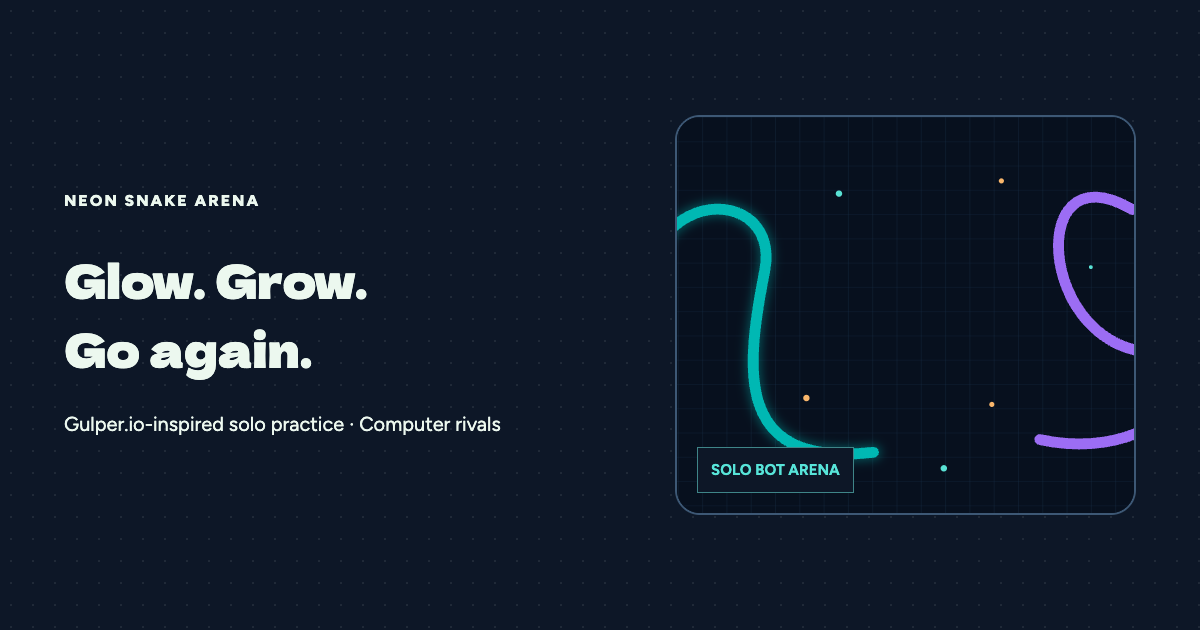
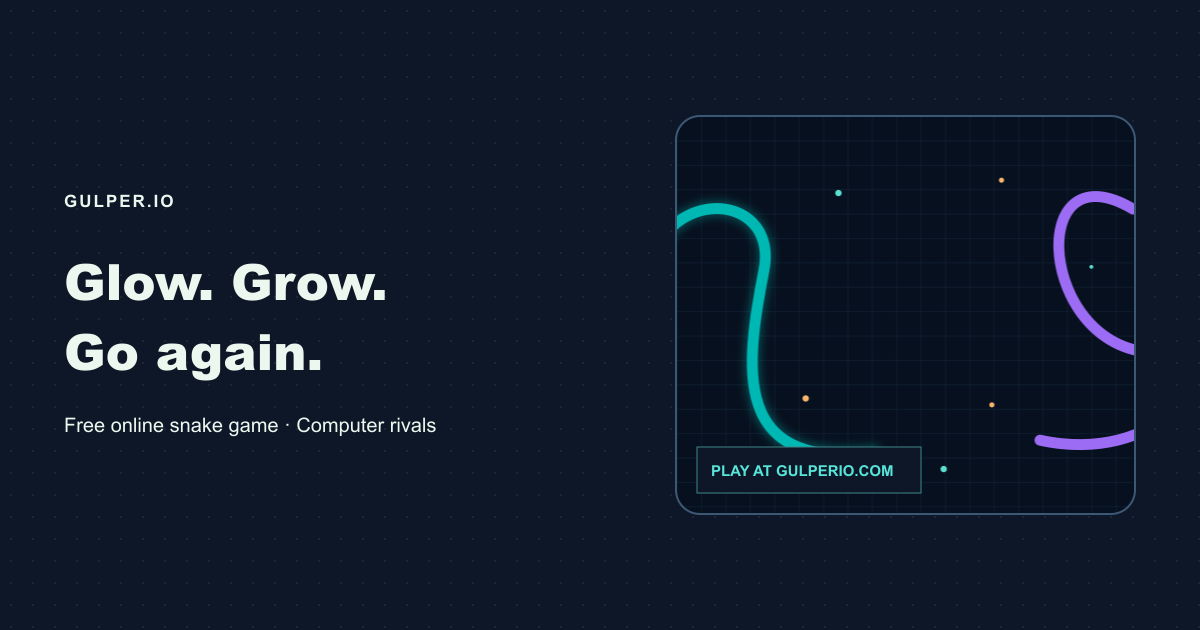
copy: focus Gulperio metadata on the game and player controls

diff --git a/games/gulperio/index.html b/games/gulperio/index.html
@@ -3,25 +3,25 @@
 <head>
   <meta charset="UTF-8">
   <meta name="viewport" content="width=device-width, initial-scale=1">
-  <title>Gulper.io-Inspired Snake Arena — Solo Bot Game</title>
+  <title>Gulper.io Snake Game — Play Online Free</title>
 
   <!-- Primary Meta Tags -->
-  <meta name="title" content="Gulper.io-Inspired Snake Arena — Solo Bot Game">
-  <meta name="description" content="Play an independent neon snake arena against computer-controlled opponents. Steer, collect orbs, boost and beat your browser-local best. No multiplayer server.">
+  <meta name="title" content="Gulper.io Snake Game — Play Online Free">
+  <meta name="description" content="Play Gulper.io in your browser. Collect glowing orbs, outmaneuver computer rivals and boost your way to a new high score. Free to play, no download.">
   <meta name="robots" content="index, follow, max-image-preview:large">
   <link rel="canonical" href="https://gulperio.com/">
 
   <!-- Open Graph / Facebook -->
   <meta property="og:type" content="website">
   <meta property="og:url" content="https://gulperio.com/">
-  <meta property="og:title" content="Gulper.io-Inspired Snake Arena — Solo Bot Game">
-  <meta property="og:description" content="Play an independent neon snake arena against computer-controlled opponents. Steer, collect orbs, boost and beat your browser-local best. No multiplayer server.">
+  <meta property="og:title" content="Gulper.io Snake Game — Play Online Free">
+  <meta property="og:description" content="Play Gulper.io in your browser. Collect glowing orbs, outmaneuver computer rivals and boost your way to a new high score. Free to play, no download.">
 
   <!-- Twitter -->
   <meta name="twitter:card" content="summary_large_image">
   <meta property="twitter:url" content="https://gulperio.com/">
-  <meta name="twitter:title" content="Gulper.io-Inspired Snake Arena — Solo Bot Game">
-  <meta name="twitter:description" content="Play an independent neon snake arena against computer-controlled opponents. Steer, collect orbs, boost and beat your browser-local best. No multiplayer server.">
+  <meta name="twitter:title" content="Gulper.io Snake Game — Play Online Free">
+  <meta name="twitter:description" content="Play Gulper.io in your browser. Collect glowing orbs, outmaneuver computer rivals and boost your way to a new high score. Free to play, no download.">
 
   <!-- Theme & Icons -->
   <meta name="theme-color" content="#0d1727">
@@ -36,8 +36,8 @@
   "@graph": [
     {
       "@type": "VideoGame",
-      "name": "Gulper.io-Inspired Snake Arena",
-      "description": "Play an independent neon snake arena against computer-controlled opponents. Steer, collect orbs, boost and beat your browser-local best. No multiplayer server.",
+      "name": "Gulper.io Snake Game",
+      "description": "Play Gulper.io in your browser. Collect glowing orbs, outmaneuver computer rivals and boost your way to a new high score. Free to play, no download.",
       "url": "https://gulperio.com/",
       "image": "https://gulperio.com/assets/social-card.png",
       "gamePlatform": "Web browser",
@@ -74,14 +74,6 @@
           "acceptedAnswer": {
             "@type": "Answer",
             "text": "Yes. You can cross your own body. Hitting another snake with your head or reaching the arena boundary ends your run."
-          }
-        },
-        {
-          "@type": "Question",
-          "name": "Is this the official Gulper.io game?",
-          "acceptedAnswer": {
-            "@type": "Answer",
-            "text": "No. This is an independent browser game inspired by snake-arena mechanics. It has its own computer-controlled arena and does not connect to the original Gulper.io service."
           }
         },
         {
@@ -124,9 +116,9 @@
   <meta property="og:image" content="https://gulperio.com/assets/social-card.png">
   <meta property="og:image:width" content="1200">
   <meta property="og:image:height" content="630">
-  <meta property="og:image:alt" content="Gulper.io-Inspired Snake Arena — Solo Bot Game">
+  <meta property="og:image:alt" content="Gulper.io Snake Game — Play Online Free">
   <meta name="twitter:image" content="https://gulperio.com/assets/social-card.png">
-  <meta name="twitter:image:alt" content="Gulper.io-Inspired Snake Arena — Solo Bot Game">
+  <meta name="twitter:image:alt" content="Gulper.io Snake Game — Play Online Free">
   <link rel="manifest" href="/manifest.json">
 </head>
 <body>
@@ -221,9 +213,9 @@
     </div>
 
     <!-- Editorial Content Section: Guides, Strategy, FAQs -->
-    <section class="content-section"><article class="guide-block"><h2 class="guide-heading">A neon arena. Your own pace.</h2><p class="guide-para">This independent, single-player arena runs against computer-controlled snakes. Collect energy orbs, grow carefully and try to beat your personal best.</p><ul class="guide-list"><li>Steer with the mouse or drag on the canvas. A second finger activates touch boost.</li><li>Hold the left mouse button or Space with the arena focused to boost. Release to stop spending length.</li><li>Your own tail is safe to cross. Other snakes and the outer boundary are hazards.</li><li>Start another run from the result screen or the New run button. Arena rankings describe this local match.</li></ul></article><article class="guide-block"><h2 class="guide-heading">Questions before one more round?</h2><details class="faq-item"><summary>Am I playing against other people?</summary><p>No. This is a single-player snake arena with computer-controlled opponents. The arena rankings are local to this run, not a global or live multiplayer leaderboard.</p></details><details class="faq-item"><summary>How do I steer and boost?</summary><p>Move your mouse over the arena to steer, or drag a finger on the canvas. Hold the left mouse button or Space while the arena has focus to boost. On touchscreens, use a second finger to boost. Boosting spends some length.</p></details><details class="faq-item"><summary>Can I pass through my own tail?</summary><p>Yes. You can cross your own body. Hitting another snake with your head or reaching the arena boundary ends your run.</p></details><details class="faq-item"><summary>Is this the official Gulper.io game?</summary><p>No. This is an independent browser game inspired by snake-arena mechanics. It has its own computer-controlled arena and does not connect to the original Gulper.io service.</p></details><details class="faq-item"><summary>What does the site save?</summary><p>Your personal best and sound setting stay in this browser when storage is available. Clearing site data removes them. The current run and arena rankings are not saved.</p></details><details class="faq-item"><summary>Will it work on every school or work network?</summary><p>Access depends on your network rules. A browser-based game and its domain cannot guarantee access or bypass a network filter.</p></details></article><article class="guide-block"><h2 class="guide-heading">Rivals with a little personality</h2><details class="faq-item"><summary>How do the computer rivals play?</summary><p>Each rival has its own play style: collecting, hunting, drifting or taking rookie risks. They react to nearby food and snakes, sometimes sprint, change their minds and make mistakes. They are computer-controlled, not online players.</p></details></article><article class="guide-block" id="privacy"><h2 class="guide-heading">Privacy &amp; local storage</h2><p class="guide-para">Game records and sound settings stay in this browser. No account is needed. The host may use Vercel Web Analytics and Speed Insights for aggregate visits and performance; hosting also produces standard request logs. There are no advertising scripts in this version. <a href="/THIRD_PARTY_NOTICES.md">Fonts &amp; asset notes</a>.</p></article></section>
+    <section class="content-section"><article class="guide-block"><h2 class="guide-heading">A neon arena. Your own pace.</h2><p class="guide-para">Collect glowing orbs, grow your snake and outmaneuver computer rivals. Find your opening, boost past trouble and chase a new personal best.</p><ul class="guide-list"><li>Steer with the mouse or drag on the canvas. A second finger activates touch boost.</li><li>Hold the left mouse button or Space with the arena focused to boost. Release to stop spending length.</li><li>Your own tail is safe to cross. Other snakes and the outer boundary are hazards.</li><li>Start another run from the result screen or the New run button. Arena rankings describe this local match.</li></ul></article><article class="guide-block"><h2 class="guide-heading">Questions before one more round?</h2><details class="faq-item"><summary>Am I playing against other people?</summary><p>No. This is a single-player snake arena with computer-controlled opponents. The arena rankings are local to this run, not a global or live multiplayer leaderboard.</p></details><details class="faq-item"><summary>How do I steer and boost?</summary><p>Move your mouse over the arena to steer, or drag a finger on the canvas. Hold the left mouse button or Space while the arena has focus to boost. On touchscreens, use a second finger to boost. Boosting spends some length.</p></details><details class="faq-item"><summary>Can I pass through my own tail?</summary><p>Yes. You can cross your own body. Hitting another snake with your head or reaching the arena boundary ends your run.</p></details><details class="faq-item"><summary>What does the site save?</summary><p>Your personal best and sound setting stay in this browser when storage is available. Clearing site data removes them. The current run and arena rankings are not saved.</p></details><details class="faq-item"><summary>Will it work on every school or work network?</summary><p>Access depends on your network rules. A browser-based game and its domain cannot guarantee access or bypass a network filter.</p></details></article><article class="guide-block"><h2 class="guide-heading">Rivals with a little personality</h2><details class="faq-item"><summary>How do the computer rivals play?</summary><p>Each rival has its own play style: collecting, hunting, drifting or taking rookie risks. They react to nearby food and snakes, sometimes sprint, change their minds and make mistakes. They are computer-controlled, not online players.</p></details></article><article class="guide-block" id="privacy"><h2 class="guide-heading">Privacy &amp; local storage</h2><p class="guide-para">Game records and sound settings stay in this browser. No account is needed. The host may use Vercel Web Analytics and Speed Insights for aggregate visits and performance; hosting also produces standard request logs. There are no advertising scripts in this version. <a href="/THIRD_PARTY_NOTICES.md">Fonts &amp; asset notes</a>.</p></article></section>
 
-    <footer class="site-footer"><p>An independent Gulper.io-inspired solo snake game. Not the official Gulper.io service. Opponents are computer-controlled; rankings are local to each run.</p><a href="#privacy">Privacy &amp; local storage</a></footer>
+    <footer class="site-footer"><p>Play free at Gulperio.com. Collect orbs, dodge rivals and climb the arena rankings.</p><a href="#privacy">Privacy &amp; local storage</a></footer>
   </main>
 
   <!-- Game Over Dialog (closedby="any") -->

diff --git a/games/gulperio/design/social-card.html b/games/gulperio/design/social-card.html
@@ -1,1 +1,1 @@
-<!doctype html><html lang="en"><meta charset="utf-8"><title>NEON SNAKE ARENA social card source</title><style>@font-face{font-family:Display;src:url('/assets/fonts/DelaGothicOne-Latin.woff2')}@font-face{font-family:Body;src:url('/assets/fonts/Figtree-Latin.woff2')}*{box-sizing:border-box}body{margin:0;width:1200px;height:630px;background:#0d1727;color:#ecf8ef;font-family:Body,system-ui;display:grid;grid-template-columns:1.25fr 1fr;align-items:center;padding:64px;gap:35px;background-image:radial-gradient(#ecf8ef15 1px,transparent 1px);background-size:22px 22px}.brand{font-size:16px;letter-spacing:2px;font-weight:800;margin-bottom:35px}h1{font-family:Display,sans-serif;font-size:46px;line-height:1.5;font-weight:400;margin:0 0 25px}p{font-size:20px;line-height:1.6;margin:0}.board{display:grid;grid-template-columns:repeat(8,1fr);gap:5px;border:3px solid #26304a;padding:15px;background:#fff;border-radius:24px;box-shadow:0 9px #26304a}.board i{aspect-ratio:1;border-radius:7px;border:1px solid #26304a12}.product{background:#fff;border:3px solid #26304a;border-radius:25px;padding:20px;text-align:center;box-shadow:0 9px #26304a}.product img{width:100%;height:230px}.tag{background:#ffda69;border:2px solid #26304a;border-radius:14px;font-family:Display;font-size:36px;padding:10px;margin:10px 0}.product p{font-size:16px}.arena{position:relative;height:400px;border:2px solid #3d5875;border-radius:25px;overflow:hidden}.arena img{width:100%;height:100%;object-fit:cover}.arena b{position:absolute;left:20px;bottom:20px;font-size:15px;background:#0d1727;padding:13px;border:1px solid #3f8588;color:#57e4d9}</style><main><div class="brand">NEON SNAKE ARENA</div><h1>Glow. Grow.<br>Go again.</h1><p>Gulper.io-inspired solo practice · Computer rivals</p></main><div class="arena"><img src="/assets/arena-preview.svg"><b>SOLO BOT ARENA</b></div></html>
+<!doctype html><html lang="en"><meta charset="utf-8"><title>GULPER.IO social card source</title><style>@font-face{font-family:Display;src:url('/assets/fonts/DelaGothicOne-Latin.woff2')}@font-face{font-family:Body;src:url('/assets/fonts/Figtree-Latin.woff2')}*{box-sizing:border-box}body{margin:0;width:1200px;height:630px;background:#0d1727;color:#ecf8ef;font-family:Body,system-ui;display:grid;grid-template-columns:1.25fr 1fr;align-items:center;padding:64px;gap:35px;background-image:radial-gradient(#ecf8ef15 1px,transparent 1px);background-size:22px 22px}.brand{font-size:16px;letter-spacing:2px;font-weight:800;margin-bottom:35px}h1{font-family:Display,sans-serif;font-size:46px;line-height:1.5;font-weight:400;margin:0 0 25px}p{font-size:20px;line-height:1.6;margin:0}.board{display:grid;grid-template-columns:repeat(8,1fr);gap:5px;border:3px solid #26304a;padding:15px;background:#fff;border-radius:24px;box-shadow:0 9px #26304a}.board i{aspect-ratio:1;border-radius:7px;border:1px solid #26304a12}.product{background:#fff;border:3px solid #26304a;border-radius:25px;padding:20px;text-align:center;box-shadow:0 9px #26304a}.product img{width:100%;height:230px}.tag{background:#ffda69;border:2px solid #26304a;border-radius:14px;font-family:Display;font-size:36px;padding:10px;margin:10px 0}.product p{font-size:16px}.arena{position:relative;height:400px;border:2px solid #3d5875;border-radius:25px;overflow:hidden}.arena img{width:100%;height:100%;object-fit:cover}.arena b{position:absolute;left:20px;bottom:20px;font-size:15px;background:#0d1727;padding:13px;border:1px solid #3f8588;color:#57e4d9}</style><main><div class="brand">GULPER.IO</div><h1>Glow. Grow.<br>Go again.</h1><p>Free online snake game · Computer rivals</p></main><div class="arena"><img src="/assets/arena-preview.svg"><b>PLAY AT GULPERIO.COM</b></div></html>

diff --git a/games/gulperio/README.md b/games/gulperio/README.md
@@ -1,6 +1,6 @@
-# Neon Snake Arena — Gulper.io-inspired
+# Gulper.io Snake Game — Gulperio.com
 
-An independent single-player neon snake arena with computer-controlled rivals. It does not connect to the original Gulper.io multiplayer service. Rankings belong to the current local arena; there is no shared leaderboard.
+A single-player neon snake arena at https://gulperio.com/ with computer-controlled rivals. Rankings belong to the current local arena; there is no shared leaderboard.
 
 ## Local preview
 
@@ -22,7 +22,7 @@ Open http://127.0.0.1:4193/. The repository review server uses this port during 
 
 ## Assets and SEO
 
-Fonts are hosted locally with their OFL license files; see [THIRD_PARTY_NOTICES.md](THIRD_PARTY_NOTICES.md). Native HTML/CSS/vector artwork supplies the page and social card. Social-card source is in `design/social-card.html`; the published PNG is 1200 × 630. No remote font or product-image request is needed to play.
+Fonts are hosted locally with their OFL license files; see [THIRD_PARTY_NOTICES.md](THIRD_PARTY_NOTICES.md). Native HTML/CSS/vector artwork supplies the page and social card. Social-card layout reference is in `design/social-card.html`; `design/render-social-card.cjs` renders the current code-native vector artwork to the published 1200 × 630 PNG. Pass the local `sharp` module path as its argument when it is not installed in this repository. No remote font or product-image request is needed to play.
 
 The HTML contains one H1, readable instructions, matching visible FAQ/JSON-LD, a canonical URL, and Open Graph/Twitter metadata. FAQ schema is descriptive and does not guarantee a Google rich result. No ratings or ranking promises are supplied. Existing Vercel analytics/performance script hooks are retained for hosted pages and skipped on localhost; page privacy text discloses them.
 

diff --git a/deployments/2026-10-24-gulper-copy.md b/deployments/2026-10-24-gulper-copy.md
@@ -1,0 +1,13 @@
+# Gulperio copy and domain verification
+
+Owner preference: use direct game/SEO copy; avoid repeated imitation/inspired framing. Keep the game name Gulper.io and website domain gulperio.com. Describe actual controls, computer rivals and local arena rankings accurately.
+
+Verified Vercel domain: `gulperio.com`, `verified:true`, project `prj_wVEVdXppNfidfGfeDXKSpDCEo1os` (`gulperio-game`), team `team_yFBRBoOUaKz5Kjg6nxC3skZF`. Source build origin, canonical, Open Graph URLs, robots and sitemap all use `https://gulperio.com`.
+
+Changed homepage title/social metadata to **Gulper.io Snake Game — Play Online Free**, rewrote the description and gameplay introduction, removed the unnecessary official-game comparison FAQ from both visible content and JSON-LD, simplified the footer, and updated the app manifest/social card. No gameplay logic changed. Required font notices and privacy information remain.
+
+Validation: 21 preview/production metadata and export checks passed; FAQ schema matches visible answers, preview remains noindex, production uses the correct domain. The regenerated 1200×630 social PNG was visually checked. Evidence: [gulper-copy-checks.json](evidence/2026-10-24/gulper-copy-checks.json).
+
+Publication: source is prepared for GitHub push; actual production update must be verified separately. Previous Vercel commit statuses report `Deployment rate limited — retry in 24 hours.` Do not mark this new copy live unless a new READY deployment and public title are observed. No quota workaround or paid-plan change is authorized by this copy edit.
+
+Local asset tool: `games/gulperio/design/render-social-card.cjs`; verified by passing the bundled absolute `sharp` module path. It re-renders native SVG artwork and text; it is excluded from the runtime export.

diff --git a/HANDOFF.md b/HANDOFF.md
@@ -1,5 +1,7 @@
 # GameHubs handoff
 
+Current task — Gulperio copy (2026-10-24): domain binding and build/canonical/sitemap verified against gulperio.com. Direct game/SEO copy now replaces inspired/independent/official-comparison framing in public metadata, supporting copy and social card; actual computer-rival/local-ranking descriptions remain.21 metadata/export checks pass. [Release record](deployments/2026-10-24-gulper-copy.md). Next: push scoped paths and check GitHub/Vercel status; prior pushes are blocked by the platform's24-hour deployment rate limit, so do not claim this copy is live without a new READY deployment and public-title verification. Owner copy preference is recorded in AGENTS.md.
+
 Repository refactor (2026-10-24): [REPOSITORIES.md](REPOSITORIES.md) and [REPOSITORY_REFACTOR.md](REPOSITORY_REFACTOR.md). Cluster Rush / Acceleration City canonical sources are now their independent private repositories in `E:/Projects/game-sites/`; do not continue editing their GameHubs snapshots. Ten deployed projects remain linked to this repository with per-game Ignored Build Step filtering. Release holds remain in force.
 
 Live selective-build verification at 772f407: Snow Rider READY, 8 unrelated projects canceled by the ignore command; Gulper.io was rate-limited before deployment creation (platform says retry in24 hours), so its live ignore execution remains pending. All10 public URLs still return200. Remaining10 repository migrations are a subsequent phase; canceled attempts do not replace the existing production deployment.

diff --git a/AGENTS.md b/AGENTS.md
@@ -8,3 +8,4 @@ GameHubs is the portfolio registry and the temporary source repository for ten d
 - New games should start in separate sibling repositories, one Vercel project per game; register their source, release state and domains here. Do not put nested Git repositories inside GameHubs.
 - Preserve current release holds: Acceleration City awaits embedding permission; Cluster Rush awaits permission/domain decisions; Snow Rider remains noindex until actual-domain gameplay acceptance. Follow subsequent explicit owner authorization when these conditions change.
 - Do not commit credentials, `.env` files, `.vercel` credentials or ignored downloaded game packages. Record verified outcomes separately from pending acceptance.
+- Public game copy should lead with the game name, gameplay and controls. The owner does not want repeated "inspired", "clone" or imitation disclaimers in titles and sales copy. Keep required credits/licenses and accurate feature descriptions; do not invent official affiliation, multiplayer or other unsupported features.
